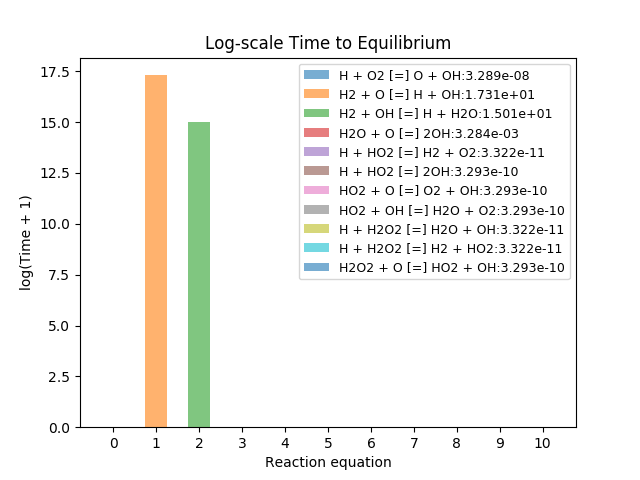
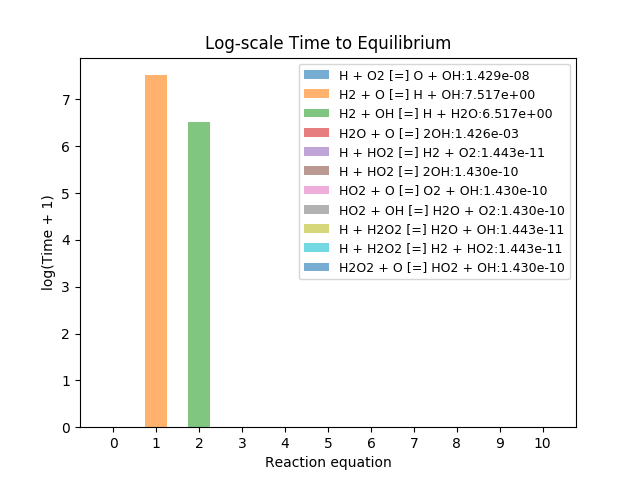
changed ODE solver

diff --git a/demo_ODEsolver.py b/demo_ODEsolver.py
@@ -3,8 +3,7 @@ from chemkin.preprocessing.parse_xml import XmlParser
 from chemkin.viz import summary
 
 
-# Ti = [100, 900, 1500, 2500, 7000] # temp held constant
-Ti = [1500]
+Ti = [900, 2500]
 xi = [2., 1., .5, 1., 1., 1., .5, 1.] # specie concentrations
 xml_parser = XmlParser(pckg_xml_path('rxns_reversible'))
 
